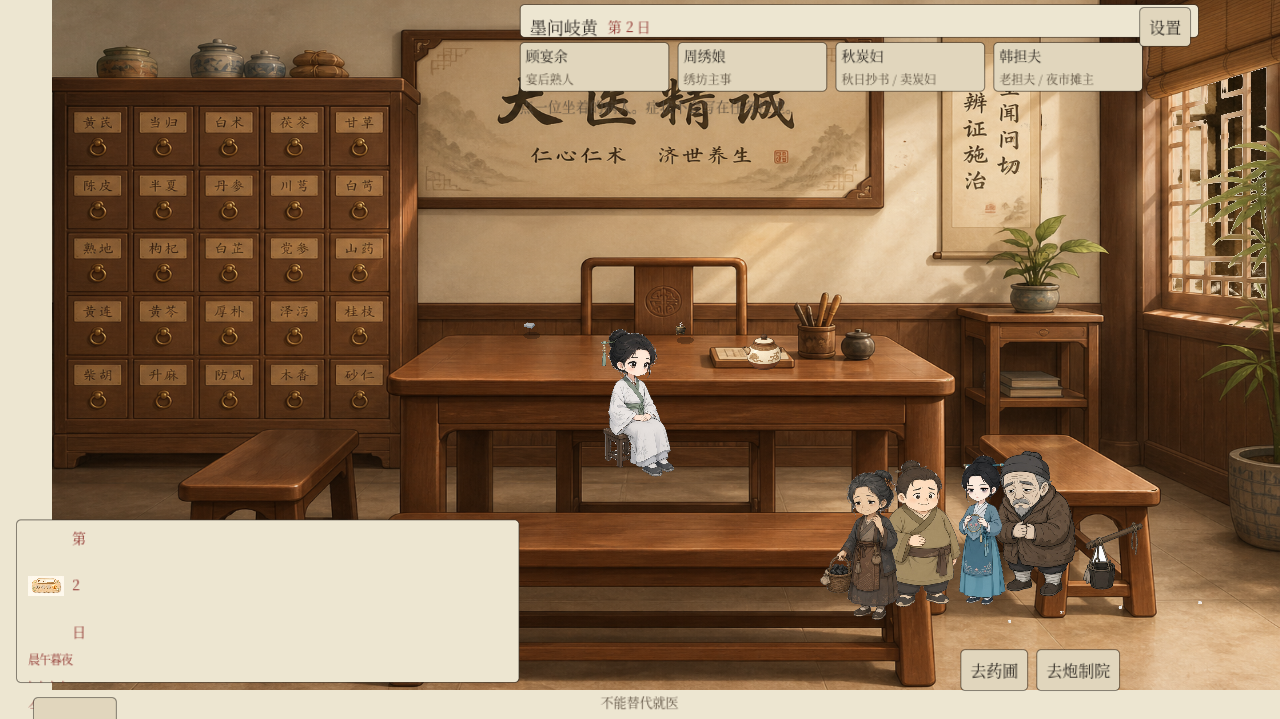
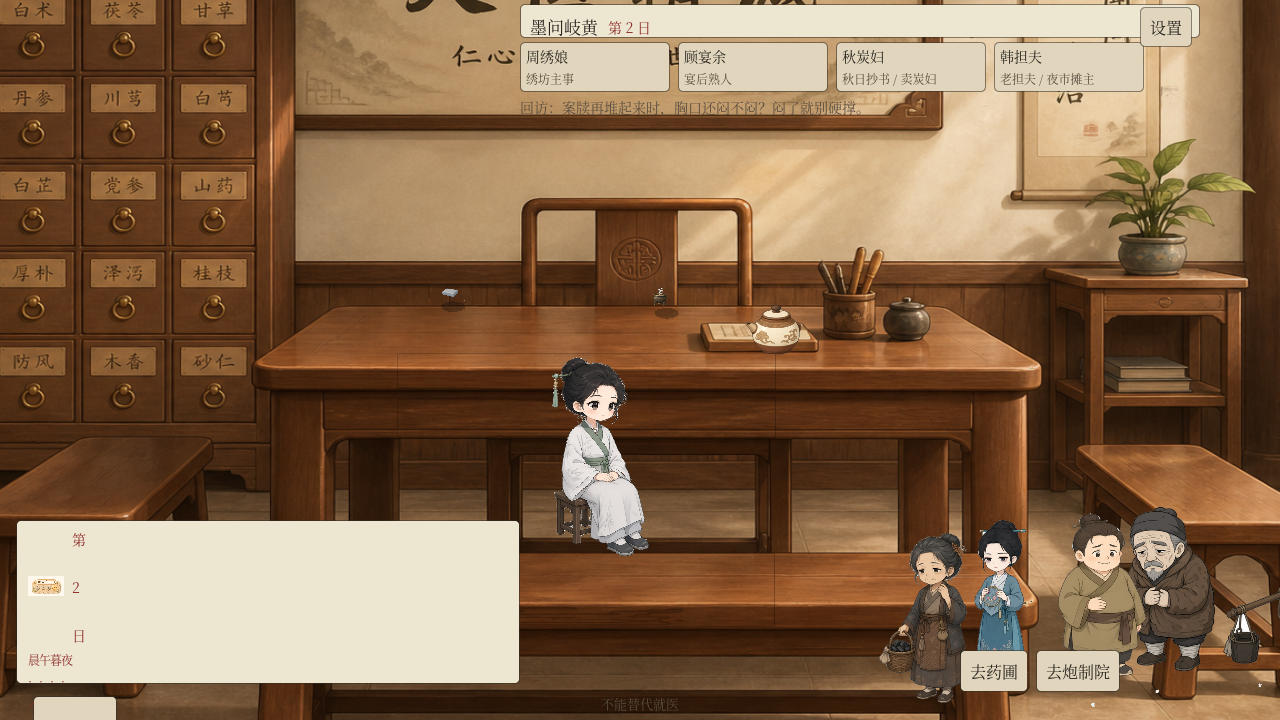
V139.1：锁死脚底重挂 + L3_desk_front 进 L5 YSort 重截三帧
脚底：江晚(1220,1080)·坐诊(1280,1280)·A–D 右过道；去掉错误 look 偏移/宽 zoom0.48。
机位：idle CAM_HERO(1280,780) zoom≈0.67；开诊可选 CAM_ASK。
桌沿：L3_desk_front(+apron) 按 L3_DESK_FRONT.md 挂 L5_characters 同 YSort，排序 Y=1160。
冒烟 ui_consult_layout_ok + SMOKE PASS。交 ui/boot|waiting|consult/v139_*.png。

diff --git a/scene-slice/layers/L3_DESK_FRONT.md b/scene-slice/layers/L3_DESK_FRONT.md
@@ -1,0 +1,52 @@
+# L3_desk_front（V139.1）
+
+自 `L3-furniture.png` 裁切诊桌前立面/桌沿，透明底。权威：`scene-slice/CLINIC-CONSULT-V139.md` §2。
+
+## 资源
+
+| 文件 | 说明 |
+| --- | --- |
+| `L3_desk_front.png` | **主交**：1536×1024，仅桌沿条不透明；与 L3 同纹理空间 |
+| `L3_desk_front_strip.png` | 紧裁条（同像素）；挂载时用下方 offset |
+| `../ui/clinic/L3_desk_front_apron.png` | 可选：更高处的诊桌前立面（中段遮挡更强）；正式锁仍以主交为准 |
+
+药壶/脉枕/香炉已验收，不重做。不重绘整馆。
+
+## 世界对齐
+
+- 像素盒约 **世界 x∈[920,1480] · y∈[1060,1180]**（纹理约 `(552,760)–(889,840)`）
+- **Y-sort 原点（世界）= (1220, 1160)**；排序键 **Y=1160**；**z_index ≈ 4**
+- 映射：纹理 (0,0)→世界 (0,0)，(1536,1024)→(2560,1440)；scale `(1.666667, 1.40625)`
+
+## 角色挂 tscn（推荐）
+
+同 L3 Art 的 scale；**节点 position 必须落到排序原点**，勿照抄 Art 的 `(1280,720)`（否则排序键变成 720）。
+
+```
+Sprite2D L3_desk_front
+  texture = res://scene-slice/layers/L3_desk_front.png   # 或 ui/layers/ 镜像
+  centered = false
+  scale = Vector2(1.666667, 1.40625)
+  position = Vector2(1220, 1160)          # Y-sort 键
+  offset = Vector2(-732.0, -824.8889)     # 使纹理 (0,0) 仍对齐世界 (0,0)
+  z_index = 4
+  y_sort_enabled = true
+```
+
+紧裁条 `L3_desk_front_strip.png` 等价挂法：
+
+```
+  texture = .../L3_desk_front_strip.png
+  position = Vector2(1220, 1160)
+  offset = Vector2(-180.0, -64.8889)      # strip 纹理左上 ≈ 世界 (920, 1068.8)
+  scale / centered / z / y_sort 同上
+```
+
+须与人物进**同一 YSort 父节点**（或父级 `y_sort_enabled` 能与本节点比较）。
+
+## 排序语义
+
+- 脚底 `Y < 1160`（江晚 1080）→ 画在桌沿后  
+- 脚底 `Y > 1160`（坐诊 / A–D）→ 画在桌沿前  
+
+镜位仍 `CAM_HERO (1280,780)`。

diff --git a/ui/clinic/L3_DESK_FRONT.md b/ui/clinic/L3_DESK_FRONT.md
@@ -1,0 +1,52 @@
+# L3_desk_front（V139.1）
+
+自 `L3-furniture.png` 裁切诊桌前立面/桌沿，透明底。权威：`scene-slice/CLINIC-CONSULT-V139.md` §2。
+
+## 资源
+
+| 文件 | 说明 |
+| --- | --- |
+| `L3_desk_front.png` | **主交**：1536×1024，仅桌沿条不透明；与 L3 同纹理空间 |
+| `L3_desk_front_strip.png` | 紧裁条（同像素）；挂载时用下方 offset |
+| `../ui/clinic/L3_desk_front_apron.png` | 可选：更高处的诊桌前立面（中段遮挡更强）；正式锁仍以主交为准 |
+
+药壶/脉枕/香炉已验收，不重做。不重绘整馆。
+
+## 世界对齐
+
+- 像素盒约 **世界 x∈[920,1480] · y∈[1060,1180]**（纹理约 `(552,760)–(889,840)`）
+- **Y-sort 原点（世界）= (1220, 1160)**；排序键 **Y=1160**；**z_index ≈ 4**
+- 映射：纹理 (0,0)→世界 (0,0)，(1536,1024)→(2560,1440)；scale `(1.666667, 1.40625)`
+
+## 角色挂 tscn（推荐）
+
+同 L3 Art 的 scale；**节点 position 必须落到排序原点**，勿照抄 Art 的 `(1280,720)`（否则排序键变成 720）。
+
+```
+Sprite2D L3_desk_front
+  texture = res://scene-slice/layers/L3_desk_front.png   # 或 ui/layers/ 镜像
+  centered = false
+  scale = Vector2(1.666667, 1.40625)
+  position = Vector2(1220, 1160)          # Y-sort 键
+  offset = Vector2(-732.0, -824.8889)     # 使纹理 (0,0) 仍对齐世界 (0,0)
+  z_index = 4
+  y_sort_enabled = true
+```
+
+紧裁条 `L3_desk_front_strip.png` 等价挂法：
+
+```
+  texture = .../L3_desk_front_strip.png
+  position = Vector2(1220, 1160)
+  offset = Vector2(-180.0, -64.8889)      # strip 纹理左上 ≈ 世界 (920, 1068.8)
+  scale / centered / z / y_sort 同上
+```
+
+须与人物进**同一 YSort 父节点**（或父级 `y_sort_enabled` 能与本节点比较）。
+
+## 排序语义
+
+- 脚底 `Y < 1160`（江晚 1080）→ 画在桌沿后  
+- 脚底 `Y > 1160`（坐诊 / A–D）→ 画在桌沿前  
+
+镜位仍 `CAM_HERO (1280,780)`。
